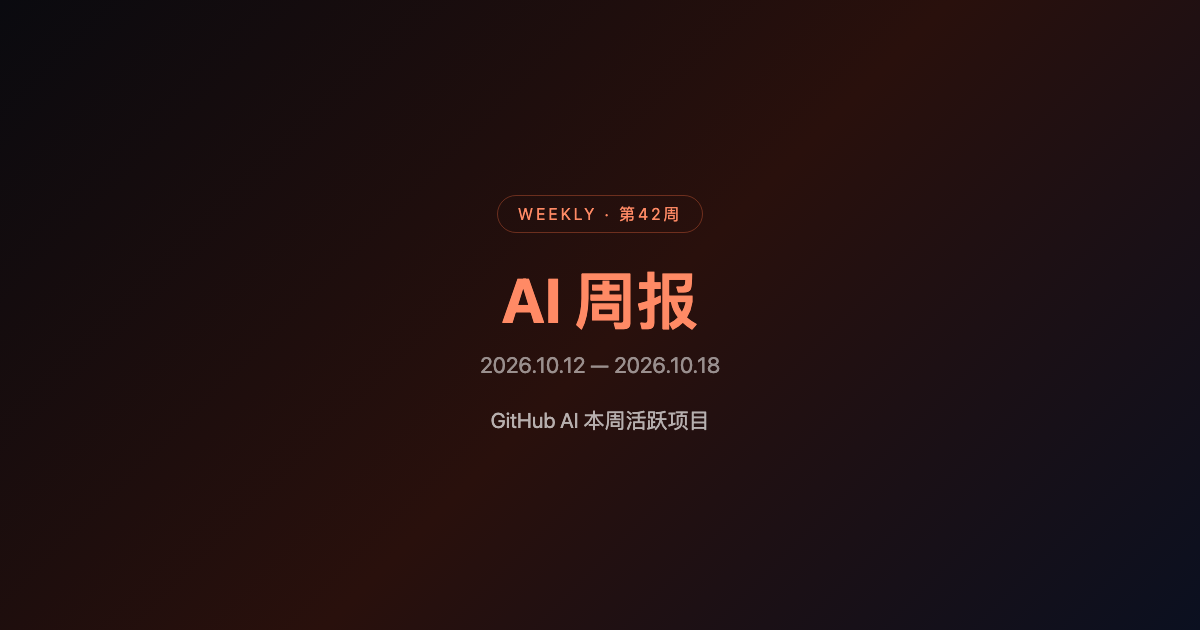
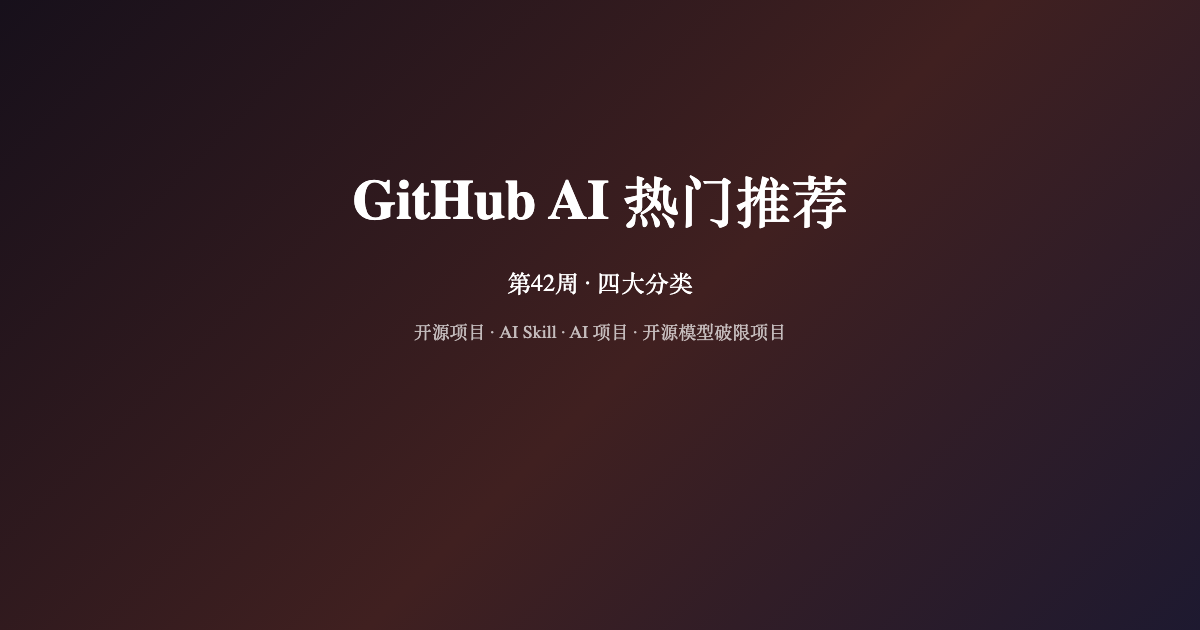
GitHub AI Weekly #42: four categories

Changed region(s): [[0.2775, 0.0, 0.8633, 1.0]]

diff --git a/index.html b/index.html
@@ -1,1 +1,20 @@
-<!doctype html><html lang="zh-CN"><head><meta charset="utf-8"><meta name="viewport" content="width=device-width,initial-scale=1"><title>AI 周报 · 第42周 | GitHub AI 本周活跃项目</title><meta property="og:title" content="AI 周报 · 第42周 | GitHub AI 本周活跃项目"><meta property="og:description" content="基于本周 GitHub 推送活动筛选的 AI 项目，并附项目定位与采用风险观察"><meta property="og:image" content="https://83494660.github.io/AI-Weekly/og-image.png"><meta property="og:url" content="https://83494660.github.io/AI-Weekly/"><style>body{margin:0;background:#0a0e14;color:#e8edf5;font-family:-apple-system,BlinkMacSystemFont,"PingFang SC","Microsoft YaHei",sans-serif;line-height:1.75}.header{padding:68px 20px 58px;text-align:center;background:linear-gradient(135deg,#ff4500,#d93652)}h1{font-size:42px;margin:0 0 14px}.subtitle{color:#fff8dd;letter-spacing:2px}.date{display:inline-block;margin-top:18px;padding:4px 15px;border:1px solid #ffffff66;border-radius:20px;color:#fff}.wrap{max-width:920px;margin:auto;padding:36px 20px 70px}.overview{color:#cbd5e1;font-size:17px}.notice{background:#30220f;border:1px solid #a66a2b;border-radius:10px;padding:14px 16px;color:#f5d9a8}.news-item{margin:20px 0;padding:22px 24px;background:#0f151e;border:1px solid #243144;border-radius:12px}.top{display:flex;justify-content:space-between;align-items:center}.tag{display:inline-block;padding:2px 10px;border-radius:14px;font-size:12px;background:#3b82f633;color:#78abff}.rank{font-size:12px;color:#93a4b8}.title{font-size:21px;font-weight:700;margin-top:7px}a{color:#f4a261;text-decoration:none}a:hover{text-decoration:underline}.source{color:#718096;font-size:12px;margin:4px 0 13px}.body{color:#cbd5e1}.observation{background:#1a0f0a;padding:22px;border-radius:12px;border:1px solid #3a2515}footer{text-align:center;color:#9aa9bc;padding:30px}</style></head><body><header class="header"><h1>AI 周报 · 第42周</h1><div class="subtitle">GitHub AI 本周活跃项目 · 事实边界透明</div><div class="date">📅 2026年10月12日 — 10月18日</div></header><main class="wrap"><h2>本周概览</h2><p class="overview">本期从 GitHub 搜索结果中筛选在 2026-10-12 至 2026-10-18 有推送活动、且与 artificial-intelligence 主题相关的项目，再按累计 Star 做展示排序。它反映“本周有活动的候选项目”，不是严格的新增 Star 榜。</p><div class="notice">口径说明：GitHub 搜索能证明仓库在本周有 push，但不能仅凭该接口证明新增 Star 数或所有活动都发生在本周；因此页面不虚构增长数据。</div><h2>本周项目观察</h2><section class="news-item"><div class="top"><span class="tag">AI 安全</span><span class="rank">本周活跃候选</span></div><div class="title"><a href="https://github.com/usestrix/strix" target="_blank" rel="noopener">strix</a></div><div class="source">GitHub · 本周有推送（2026-10-18） · 累计 69,678 stars · 许可证 Apache-2.0</div><div class="body"><strong>项目是什么：</strong>开源 AI 渗透测试工具，用于发现并修复 AI 应用漏洞。<br><br><strong>为什么值得看：</strong>把 AI 安全从原则讨论推进到可执行测试；重点看误报、授权边界与修复闭环。</div></section><section class="news-item"><div class="top"><span class="tag">NLP 基础设施</span><span class="rank">本周活跃候选</span></div><div class="title"><a href="https://github.com/explosion/spaCy" target="_blank" rel="noopener">spaCy</a></div><div class="source">GitHub · 本周有推送（2026-10-12） · 累计 33,972 stars · 许可证 MIT</div><div class="body"><strong>项目是什么：</strong>面向生产环境的 Python NLP 工具包。<br><br><strong>为什么值得看：</strong>成熟 NLP 基础设施仍是 AI 应用的底座；应关注模型接入、性能和许可证，而不是只看热度。</div></section><section class="news-item"><div class="top"><span class="tag">训练基础设施</span><span class="rank">本周活跃候选</span></div><div class="title"><a href="https://github.com/Lightning-AI/pytorch-lightning" target="_blank" rel="noopener">pytorch-lightning</a></div><div class="source">GitHub · 本周有推送（2026-10-12） · 累计 31,416 stars · 许可证 Apache-2.0</div><div class="body"><strong>项目是什么：</strong>面向不同规模 GPU 训练与微调的框架。<br><br><strong>为什么值得看：</strong>降低训练工程复杂度，但实际价值取决于分布式稳定性、版本兼容与真实成本。</div></section><section class="news-item"><div class="top"><span class="tag">安全知识库</span><span class="rank">本周活跃候选</span></div><div class="title"><a href="https://github.com/The-Art-of-Hacking/h4cker" target="_blank" rel="noopener">h4cker</a></div><div class="source">GitHub · 本周有推送（2026-10-13） · 累计 29,820 stars · 许可证 MIT</div><div class="body"><strong>项目是什么：</strong>涵盖伦理黑客、AI 安全、漏洞研究和 DFIR 的资源集合。<br><br><strong>为什么值得看：</strong>适合做安全学习入口，但资源清单不是验证过的产品能力，使用时必须区分教育资料与攻击工具。</div></section><section class="news-item"><div class="top"><span class="tag">开发者工具</span><span class="rank">本周活跃候选</span></div><div class="title"><a href="https://github.com/yamadashy/repomix" target="_blank" rel="noopener">repomix</a></div><div class="source">GitHub · 本周有推送（2026-10-18） · 累计 28,903 stars · 许可证 MIT</div><div class="body"><strong>项目是什么：</strong>把代码仓库整理成适合交给 LLM 阅读的单一文件。<br><br><strong>为什么值得看：</strong>它解决了上下文整理这一真实摩擦点；敏感文件过滤、仓库规模和输出质量决定能否进入工作流。</div></section><section class="news-item"><div class="top"><span class="tag">AI 应用框架</span><span class="rank">本周活跃候选</span></div><div class="title"><a href="https://github.com/microsoft/semantic-kernel" target="_blank" rel="noopener">semantic-kernel</a></div><div class="source">GitHub · 本周有推送（2026-10-16） · 累计 28,671 stars · 许可证 MIT</div><div class="body"><strong>项目是什么：</strong>用于把 LLM 集成进应用的开源 SDK。<br><br><strong>为什么值得看：</strong>应用框架竞争的核心是工具调用、状态管理和可观测性，而不是单次模型调用。</div></section><section class="news-item"><div class="top"><span class="tag">AI 应用开发</span><span class="rank">本周活跃候选</span></div><div class="title"><a href="https://github.com/vercel/ai" target="_blank" rel="noopener">ai</a></div><div class="source">GitHub · 本周有推送（2026-10-18） · 累计 27,392 stars · 许可证 NOASSERTION</div><div class="body"><strong>项目是什么：</strong>面向 TypeScript 的 AI 应用与代理开发工具包。<br><br><strong>为什么值得看：</strong>前端与代理能力正在合流；流式输出、模型适配和生产部署体验是关键观察点。</div></section><section class="news-item"><div class="top"><span class="tag">开源 AI</span><span class="rank">本周活跃候选</span></div><div class="title"><a href="https://github.com/lucidrains/vit-pytorch" target="_blank" rel="noopener">vit-pytorch</a></div><div class="source">GitHub · 本周有推送（2026-10-13） · 累计 25,552 stars · 许可证 MIT</div><div class="body"><strong>项目是什么：</strong>AI 相关开源项目。<br><br><strong>为什么值得看：</strong>需要结合代码活跃度、许可证和实际案例判断。</div></section><div class="observation"><h3>🔍 本周观察</h3><p><strong>本周值得关注的不是单一“最热门项目”，而是 AI 工具链正在向安全、训练、数据和开发者工作流同时扩展。</strong> 从 AI 渗透测试到代码上下文整理，再到数据集和训练框架，采用价值取决于可验证的工程指标，而非累计 Star。</p><p>下期可继续加入 GitHub Events、Release、commit 与 issue 统计，形成更严格的周增长榜。</p></div></main><footer>数据来源：GitHub API · 数据范围：2026-10-12—2026-10-18 · Hermes Agent</footer></body></html>
+<!doctype html>
+<html lang='zh-CN'><head><meta charset='utf-8'>
+<meta name='viewport' content='width=device-width,initial-scale=1'>
+<title>GitHub AI 热门推荐周报 · 第42周</title>
+<meta property='og:title' content='GitHub AI 热门推荐周报 · 第42周'>
+<meta property='og:description' content='本周热门开源项目、AI Skill、AI 项目与开源模型破限项目'>
+<meta property='og:image' content='https://83494660.github.io/AI-Weekly/og-image.png'>
+<meta property='og:url' content='https://83494660.github.io/AI-Weekly/'>
+<style>
+*{box-sizing:border-box} body{margin:0;background:#0b0e14;color:#e9edf5;font-family:-apple-system,BlinkMacSystemFont,'PingFang SC','Microsoft YaHei',sans-serif;line-height:1.75}
+.hero{padding:64px 20px;background:linear-gradient(135deg,#ff4d22,#d92d55 55%,#382080);text-align:center} h1{margin:0;font-size:42px} .hero p{opacity:.85}
+main{max-width:960px;margin:0 auto;padding:36px 20px} .notice,.category{border:1px solid #2d384d;border-radius:18px;background:#111722;padding:24px}
+.notice{background:#141c2a;color:#c4cede} .category{margin-top:28px} .eyebrow{font-size:12px;color:#8ea1c1;letter-spacing:2px} h2{color:#ff9b6b;margin:4px 0 8px} .intro{color:#bdc8da}
+.item{margin-top:18px;padding:18px;border-radius:14px;background:#1a2534} h3{margin:0;color:#75b8ff} a{text-decoration:none} .item p{margin:8px 0;color:#d2d9e6} .evidence{font-size:13px;color:#9caac0!important}
+footer{padding:28px 20px;text-align:center;color:#8290a8;font-size:13px}
+</style></head><body>
+<header class='hero'><h1>GitHub AI 热门推荐 · 第42周</h1><p>2026年10月12日 — 10月18日</p></header>
+<main><div class='notice'><b>本期范围：</b>本周热门开源项目、本周热门 AI Skill、本周热门 AI 项目、本周热门开源模型破限项目。<br><b>数据边界：</b>本页只整理公开项目和研究方向；没有可核验的周度数据时不虚构热度、增长或事件。</div>
+<section class='category'><div class='eyebrow'>WEEKLY CATEGORY</div><h2>本周热门开源项目</h2><p class='intro'>通用开源项目与开发基础设施</p><article class='item'><a href='https://github.com/yamadashy/repomix' target='_blank' rel='noopener'><h3>Repomix</h3></a><p><b>项目是什么：</b>把代码仓库整理为适合交给大模型阅读的上下文文件。</p><p><b>本周关注：</b>关注敏感文件过滤、大型仓库处理和可复现输出。</p><p class='evidence'><b>证据边界：</b>本期按分类收录公开项目；未取得可核验的周度 Star、Release 或事件数据时不虚构数字。</p></article><article class='item'><a href='https://github.com/marimo-team/marimo' target='_blank' rel='noopener'><h3>Marimo</h3></a><p><b>项目是什么：</b>面向 Python 的可复现、可部署 notebook。</p><p><b>本周关注：</b>关注数据分析与 AI 辅助开发之间的工作流衔接。</p><p class='evidence'><b>证据边界：</b>本期按分类收录公开项目；未取得可核验的周度 Star、Release 或事件数据时不虚构数字。</p></article></section><section class='category'><div class='eyebrow'>WEEKLY CATEGORY</div><h2>本周热门 AI Skill</h2><p class='intro'>Agent Skill、MCP 与可复用工作流能力</p><article class='item'><a href='https://github.com/anthropics/skills' target='_blank' rel='noopener'><h3>Anthropic Skills</h3></a><p><b>项目是什么：</b>将文档、表格、演示文稿等任务封装为可复用的 Agent 能力。</p><p><b>本周关注：</b>关注 Skill 的安装边界、工具权限和跨 Agent 兼容性。</p><p class='evidence'><b>证据边界：</b>本期按分类收录公开项目；未取得可核验的周度 Star、Release 或事件数据时不虚构数字。</p></article><article class='item'><a href='https://github.com/modelcontextprotocol/servers' target='_blank' rel='noopener'><h3>Model Context Protocol Servers</h3></a><p><b>项目是什么：</b>为模型提供文件、数据库、浏览器等外部工具能力。</p><p><b>本周关注：</b>关注授权、数据暴露范围和调用可审计性。</p><p class='evidence'><b>证据边界：</b>本期按分类收录公开项目；未取得可核验的周度 Star、Release 或事件数据时不虚构数字。</p></article></section><section class='category'><div class='eyebrow'>WEEKLY CATEGORY</div><h2>本周热门 AI 项目</h2><p class='intro'>可以直接使用的 AI 应用、代理与开发框架</p><article class='item'><a href='https://github.com/vercel/ai' target='_blank' rel='noopener'><h3>Vercel AI SDK</h3></a><p><b>项目是什么：</b>面向 TypeScript 的流式 AI 应用和 Agent 开发工具包。</p><p><b>本周关注：</b>关注模型适配、工具调用、流式 UI 和生产部署体验。</p><p class='evidence'><b>证据边界：</b>本期按分类收录公开项目；未取得可核验的周度 Star、Release 或事件数据时不虚构数字。</p></article><article class='item'><a href='https://github.com/microsoft/semantic-kernel' target='_blank' rel='noopener'><h3>Semantic Kernel</h3></a><p><b>项目是什么：</b>用于把模型、插件、记忆和流程编排进应用的 SDK。</p><p><b>本周关注：</b>关注状态管理、工具调用和可观测性，而不只是单次模型调用。</p><p class='evidence'><b>证据边界：</b>本期按分类收录公开项目；未取得可核验的周度 Star、Release 或事件数据时不虚构数字。</p></article></section><section class='category'><div class='eyebrow'>WEEKLY CATEGORY</div><h2>本周热门开源模型破限项目</h2><p class='intro'>公开的拒答、对齐和无审查模型研究项目</p><article class='item'><a href='https://huggingface.co/models?search=uncensored' target='_blank' rel='noopener'><h3>Hugging Face uncensored model search</h3></a><p><b>项目是什么：</b>公开模型目录中的 uncensored / abliterated 等模型研究方向。</p><p><b>本周关注：</b>只做项目发现和风险观察，不提供绕过安全防护的操作步骤。</p><p class='evidence'><b>证据边界：</b>本期按分类收录公开项目；未取得可核验的周度 Star、Release 或事件数据时不虚构数字。</p></article><article class='item'><a href='https://huggingface.co/models?search=abliterated' target='_blank' rel='noopener'><h3>Model alignment research</h3></a><p><b>项目是什么：</b>围绕拒答行为、模型对齐和安全边界的公开研究集合。</p><p><b>本周关注：</b>需要区分学术研究、模型变体和可直接滥用的工具。</p><p class='evidence'><b>证据边界：</b>本期按分类收录公开项目；未取得可核验的周度 Star、Release 或事件数据时不虚构数字。</p></article></section></main><footer>数据范围：2026-10-12 — 2026-10-18 · 来源：项目公开仓库与官方页面 · Hermes Agent</footer>
+</body></html>
